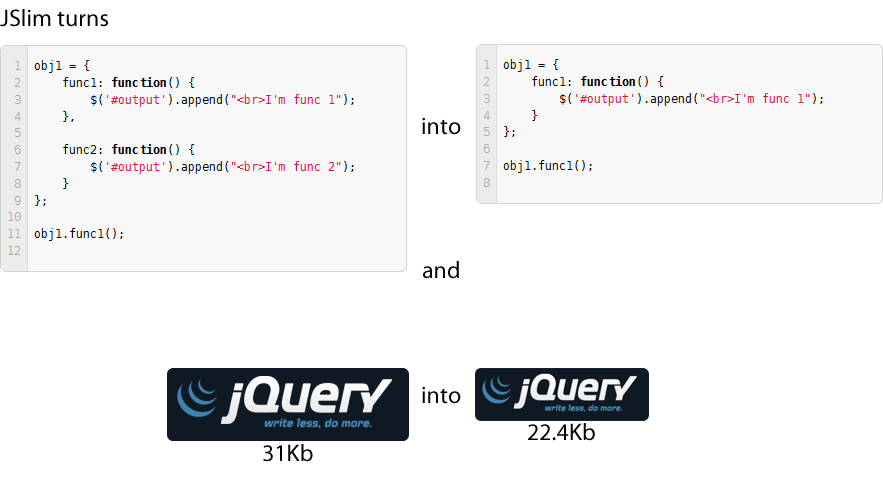
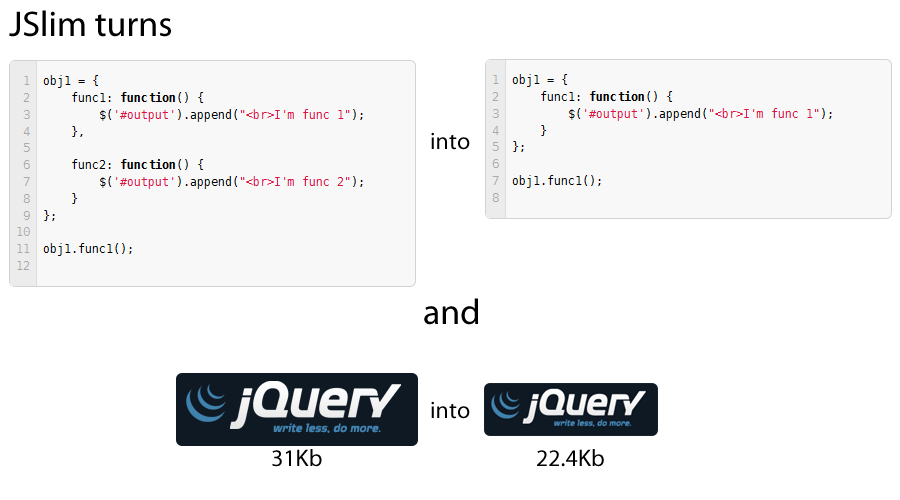
Tweaked the JSlim overview image a bit and made it the main title.

diff --git a/README.md b/README.md
@@ -1,11 +1,10 @@
-JSlim - It's your favorite JavaScript library, only faster
-==================================================
-
-![JSlim Overview](/zgrossbart/jslim/raw/master/jslim.png)
+![JSlim Overview](/zgrossbart/jslim/raw/master/jslim.png)
 
 JSlim is a JavaScript optimizer based on the [Google Closure Compiler](http://code.google.com/closure/compiler/), but instead of optimizing your code it removes unused code.
 
 Most websites use JavaScript libraries like [JQuery](http://jquery.com/) or [Prototype](http://www.prototypejs.org/), but they don't use the whole library.  JSlim builds you a new version of your favorite JavaScript library with only the code you're using.
+
+JSlim is your favorite JavaScript library, only faster
 
 Building JSlim
 --------------------------------------
